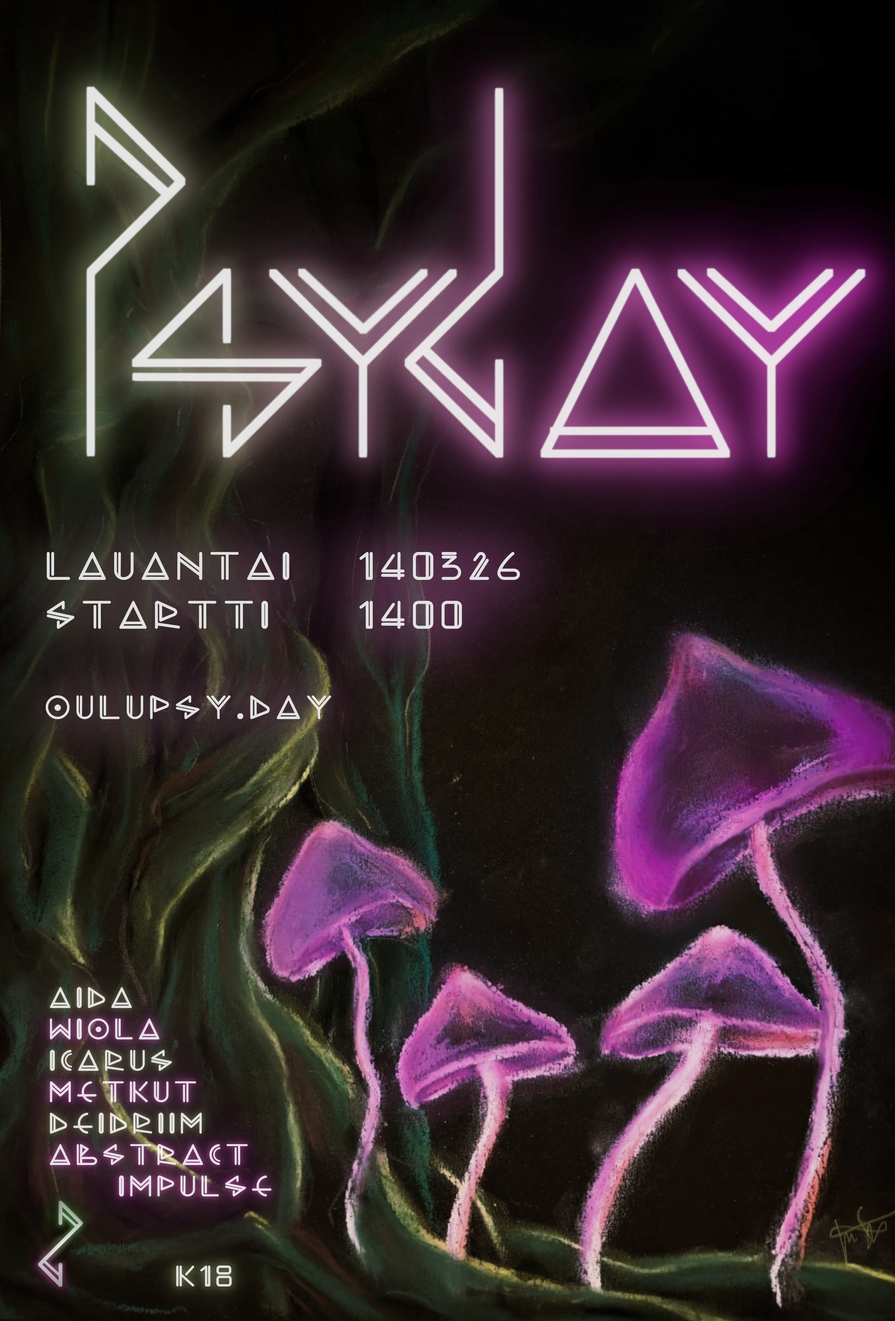
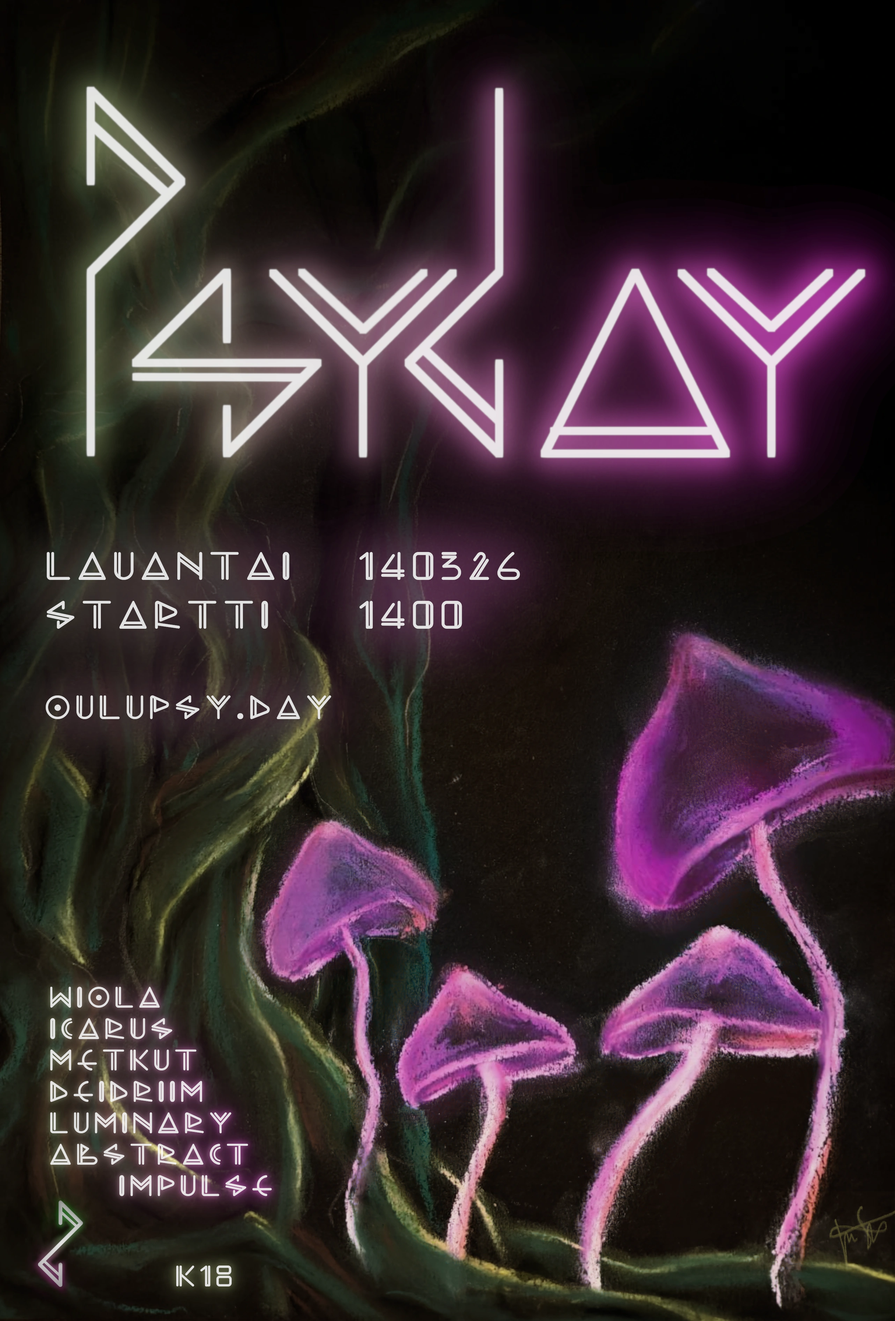
Aida to Luminary

Changed region(s): [[0.0312, 0.748, 0.2808, 0.9039]]

diff --git a/index.html b/index.html
@@ -247,7 +247,7 @@
                     <h3>☀ Päivä nousee ☀</h3>
                     
                     <div class="slot-row">
-                        <span class="time-slot">14:00 - 15:30 <span class="artist-inline">Aida</span></span>
+                        <span class="time-slot">14:00 - 15:30 <span class="artist-inline">Luminary</span></span>
                         <span class="genre-desc">Psytrance TAHDISTUS</span>
                     </div>
                     
@@ -311,8 +311,8 @@
                     </li>
 
                     <li>
-                        <span class="artist-header">Aida</span>
-                        <a href="https://soundcloud.com/dj-aida" target="_blank" class="sc-link">SoundCloud ➜</a>
+                        <span class="artist-header">Luminary</span>
+                        <a href="https://soundcloud.com/luminary_dj" target="_blank" class="sc-link">SoundCloud ➜</a>
                     </li>
 
                 </ul>
